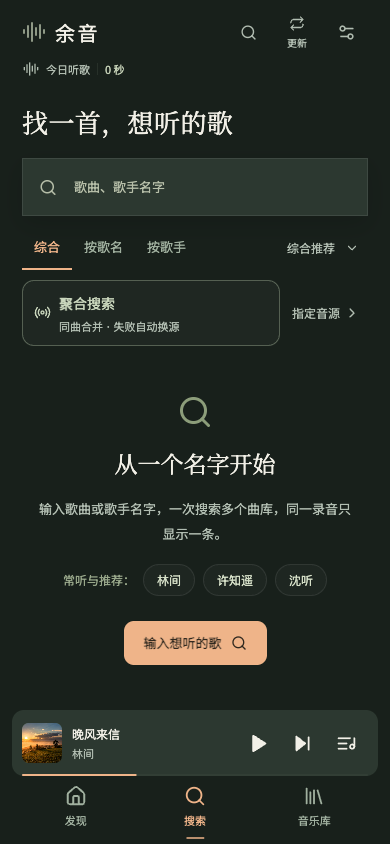
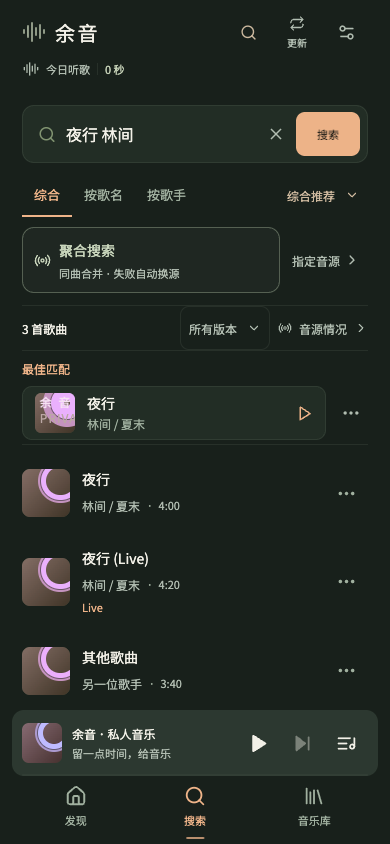
docs: introduce 1.9 search and playback improvements

diff --git a/README.md b/README.md
@@ -9,8 +9,8 @@
 - 「静谧唱片室」界面：深墨、鼠尾草绿与暖杏，精致的发现页、音乐库与完整播放器。
 - 发现音乐：网易榜单、常听歌手推荐与 Audius 独立音乐。
 - 默认聚合网易、酷狗、QQ、咪咕、酷我与 Audius 搜索；核对同一录音后合并重复项，失败时自动尝试其他来源，也可在歌曲面板直接选择同曲来源。
-- 搜索结果支持综合推荐、相关度与近期榜单热度；图标平滑展开为输入框，支持失败音源单独重试、各源独立分页与搜索历史；改善“歌手＋歌名”相关度，保留已经找到的歌曲。热度参考网易飙升榜和热歌榜，标明更新日期。
-- 播放与下载分别选择音质；自动选择可播放的品质，技术信息按需展开，听歌时少些打扰。
+- 搜索提供独立最佳匹配与录音版本筛选，突出歌名和歌手同时匹配的结果，原列表保持稳定；保留综合推荐、相关度、近期榜单热度、失败音源单独重试、各源独立分页与搜索历史。热度参考网易飙升榜和热歌榜，标明更新日期。
+- 减少起播前的额外等待，音质详情随播放补齐；换源时快候选先进入尝试。播放与下载分别选择音质，技术信息按需展开，听歌时少些打扰。
 - 独立音乐库：收藏、最近播放、个人歌单和本地音频；歌单内默认最近添加在前，保留多种排序和原始顺序。
 - Android 下载保存到 Music/余音，支持旧下载迁移与离线读取。
 - 播放队列、「下一首播放」、调整顺序、随机与循环；恢复上次歌曲和进度，启动保持暂停。
@@ -20,13 +20,13 @@
 
 ## 界面预览
 
-截图使用「静谧唱片室」的实际 Web 界面与合成演示资料；Android 沿用相同页面。同曲来源选择展示 1.8 的新面板，其他预览沿用同一主题。这些是演示截图，封面使用应用图形及 [Unsplash 许可照片](https://unsplash.com/license)，不代表真实歌曲或音源结果。
+截图使用「静谧唱片室」的实际 Web 界面与合成演示资料；Android 沿用相同页面。搜索展示 1.9 的最佳匹配与版本筛选，同曲来源选择保留 1.8 的面板，其他预览沿用同一主题。这些是演示截图，封面使用应用图形及 [Unsplash 许可照片](https://unsplash.com/license)，不代表真实歌曲或音源结果。
 
 <table>
   <tr><th>发现音乐</th><th>搜索</th><th>我的音乐</th><th>播放器</th></tr>
   <tr>
     <td><img src="images/home.png" alt="余音：静谧唱片室发现页与音乐榜单" width="220"></td>
-    <td><img src="images/search.png" alt="余音：搜索音乐与清楚的渠道选择" width="220"></td>
+    <td><img src="images/search.png" alt="余音 1.9：最佳匹配、录音版本筛选与稳定结果列表" width="220"></td>
     <td><img src="images/library.png" alt="余音：收藏、最近播放与个人歌单" width="220"></td>
     <td><img src="images/player.png" alt="余音：封面、歌词、播放模式与队列入口" width="220"></td>
   </tr>
